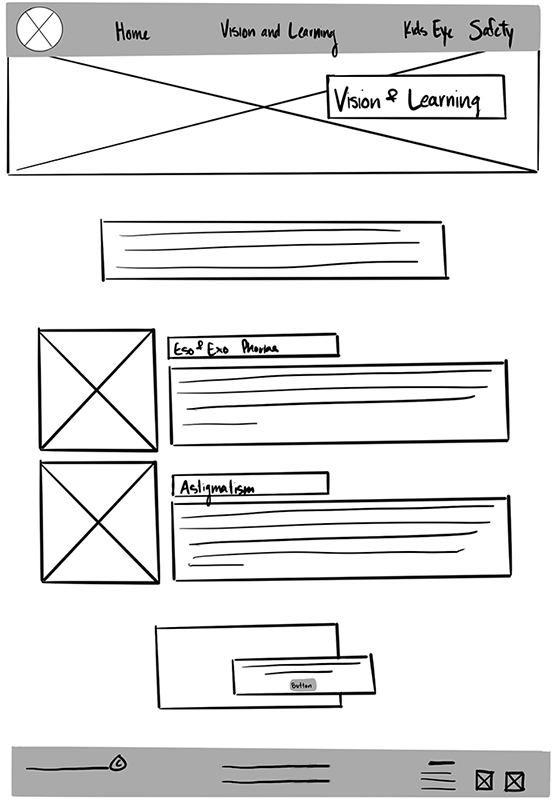
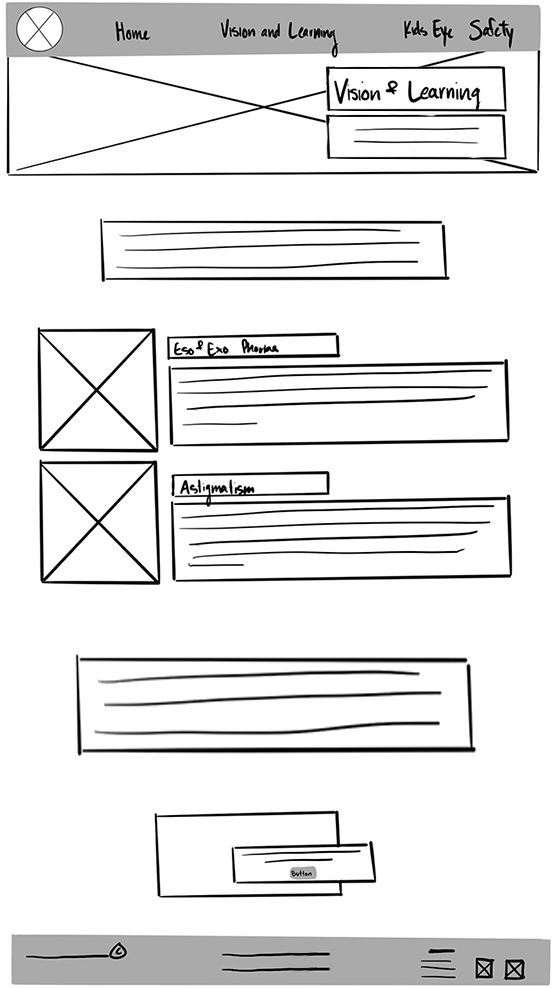
changes to html and CSS for vision-and-learning

Changed region(s): [[0.0, 0.0, 1.0, 1.0]]

diff --git a/eyelearn/vision-learning.html b/eyelearn/vision-learning.html
@@ -20,16 +20,16 @@
             </nav>
         </header>
         <div class="vision-learning-banner">
-            <div class="vision-banner-img">
+            <div id="vision-banner-img">
                 <img id="crayon-img" src="images/school-banner.jpg" alt="School Banner Background">
             </div>
-            <section id="vision-banner-text">
+            <section class="vision-banner-text">
                 <h1 class="vision-banner-text" id="vision-title">Vision and Learning</h1>
                 <h5 class="vision-banner-text" id="vision-text">How Eyes Can Affect Success in the Classroom</h5>
             </section>
         </div>
         <main>
-            <div>
+            <div class="vision-intro">
                 <p>80% of what we learn comes from vision, and recently studies have shown that 60% of 
                     "problem-learners" have an undiagnosed eye disorder. How did that happen? Because school 
                     screenings only focus on distance vision. Nearsightedness, meaning things at a distance
@@ -54,9 +54,7 @@
                         usually initially through a cover test then confirmed by additional testing.  Many phorias
                         don't cause any problems, but when they do they can impede learning by causing eyestrain, headaches,
                         poor concentration, difficulty reading, and fatigue.  Studies have even indicated that phorias have
-                        a strong correlation with dyslexia.  
-                    </p>
-                    <p>Treatment often includes prescription glasses and vision therapy. Diagnosis by an Optometrist or Ophthalmologist
+                        a strong correlation with dyslexia.  <br><br>Treatment often includes prescription glasses and vision therapy. Diagnosis by an Optometrist or Ophthalmologist
                         is essential in finding the right treatment for the condition.
                     </p>
                 </section>
@@ -73,13 +71,32 @@
                         front of it.  This is called an astigmatism.  Astigmatism is very common, but often overlooked by school screenings
                         because squinting greatly improves the vision from it, and kids often don't notice having to squint to see. Recent
                         studies have shown that children with high and moderate astigmatism have a significant decrease in reading fluency,
-                        as well as poor academic performance.
-                    </p>
-                    <p>Glasses is the primary treatment for astigmatism, and can have a substantial impact on kids with astigmatism. In 
+                        as well as poor academic performance.<br><br>Glasses is the primary treatment for astigmatism, and can have a substantial impact on kids with astigmatism. In 
                         the same study, students with high-astigmatism improved their reading speed by almost seven words per minute after
                         receiving glasses. A prescription from an Eye Doctor is required to receive glasses for astigmatism.
                     </p>
                 </section>
+                <section class="bonus-info" id="symptoms-info">
+                    <h2 class="bonus-subheader">
+                        Signs and Symptoms
+                    </h2>
+                    <p class="bonus-pg">
+                        Diagnosing vision issues in kids can be tricky, because they often don't realize that they're 
+                        experiencing problems.  Oftentimes it's so normal to them they don't know that it could be better.
+                        If you're unsure whether your child may be experiencing any eye-related learning deficiences,
+                        you can look for these signs and symptoms that hint at vision problems:
+                        <li>Headaches after prolonged reading</li> 
+                        <li>Squinting</li>
+                        <li>Avoiding reading or other activities that are up-close</li>
+                        <li>Eyes crossing or aren't straight</li>
+                        <li>Head turns or tilts when trying to focus</li>
+                        <li>Frequently covering or rubbing both eyes</li>
+                        <li>Losing their place frequently when reading</li>
+                        <li>Lack of interest in near-concentrated tasks, such as reading</li>
+                    </p>
+                </section>
+            </div>
+            <div class="find-doctor-grid">
                 <img id="kid-exam" src="images/kids-eye-exam.jpg" alt="Girl having eye exam">
                 <section class="mini-message">
                     <h2>Find an Eye Doctor Near You</h2>
@@ -97,7 +114,7 @@
             </div>
             <div class="find-doctor">
                 <p><a href="https://www.google.com/maps/search/?api=1&query=eye+doctors+near+me">Find an Eye Doctor</a></p>
-                <p><a href="https://kjirstenhernandez.github.io/wdd130/eyelearn/site-plan.html">Siteplan</a></p>
+                <p><a href="/site-plan.html" target="_blank">Siteplan</a></p>
             </div>
             
             <div class="resources">

diff --git a/eyelearn/styles/styles.css b/eyelearn/styles/styles.css
@@ -457,32 +457,146 @@ header {
                               ----->    VISION LEARNING PAGE CONTENT    <-----           
    ------------------------------------------------------------------------------------------------- */
 
-    /* Banner Image and Text  */
-            .vision-learning-banner{
-                display: grid;
-                grid-template-columns: 1fr 1fr 1fr 1fr 1fr;
-                margin-top: -100px;
-                text-align: center;
-            }
-            
-            #crayon-img, .vision-banner-text{
-             /* ------> creating the overlap*/
-                grid-row: 1/2;
-                grid-column: 1/6;
-            }
+   /* Banner Message */
+   
+   .vision-learning-banner{
+    display: grid;
+    grid-template-columns: 1fr 1fr 3fr;
+    grid-template-rows: repeat(7, 90px);
+    margin-top: -100px;
+}
+
+    /* Banner Image */
+
+        #vision-banner-img{     /*  setting up the image as a banner */
+            grid-column: 1/4;
+            grid-row: 1/3;
+            z-index: -1;
+            margin-top: 100px;   
+        }
+
+        #crayon-img{  /* -----> specific image attributes*/
+            width: 100%; 
+        }
+
+    /* Banner Message */
+
+        .vision-banner-text{  /* -----> Banner General Text Attributes*/
+            grid-column: 3/4;
+            color: #023047;
+            padding: 10px;
+            text-align: center;
+
+        }
+
+        #vision-title{  /*----> Banner Header */
+            font-family: Merriweather, Georgia, serif;
+            font-weight: 800;
+            font-size: 1.75em;
+            text-align: center;
+            background-color: #fb8601d2;
+            grid-row: 2/4;
+            border-radius: 20px;
+            padding: 10px
+        }
+
+        #vision-text{  /*----> Banner Paragraph */
+            font-family: "Montserrat", Helvetica, sans-serif;
+            font-size: 1.25em;
+            background-color: #fb8601d2;
+            grid-row: 4/7;
+            border-radius: 20px;
+            padding: 5%;
+        }
+
+/* Intro Paragraph */
+
+.vision-intro {
+    background-color: #80c5d6;
+    color: #023047;
+    margin: 200px 50px;
+    padding: 10pt 20pt;
+    border-radius: 20px;
+    font-family: "Montserrat", Helvetica, sans-serif;
+}
+
+/* Grid Items -- Photos and Descriptions */
+
+.vision-grid { /*----> Set up Grid */
+    display: grid;
+    grid-template-columns: 10px 2fr 3fr 10px;
+    grid-gap: 20px;
+}
+
+    .vision-card{ /*----> Image Cards (general) */
+        display: inline;
+        grid-column: 2/3;
+        align-items: center;
+        margin: auto
+        }
         
 
-            #crayon-img{
-                width: 100%;
+    .vision-card img{ /*----> Image Cards (individual specs) */
+        width: 80%;
+        border-radius: 2em;
+        justify-content: center;
         
-            }
+    }
 
-            .vision-banner-text {
-                background-color: #94d0e0;
-                
-            }
+    .vision-info{ /*----> Each Info Paragraph and Header*/
+        grid-column: 3/4;
+        padding: 30px;
+    }
 
+        .vision-subheader {  /*-------> Headers */
+            font-family: Merriweather, Georgia, serif;
+            font-weight: 800;
+            color: #023047;
+            font-size: 1.20em;
+        }
 
+        .vision-pg {  /*-------> Paragraphs */
+            font-family: "Montserrat", Helvetica, sans-serif;
+            color: #023047;
+            font-size: .80em;
+        }
+    
+
+/* Signs and Symptoms Bomus Info  */
+
+.bonus-info{
+    grid-column: 1/5;
+    padding: 3em;
+    background-color: #fb8501;
+    font-family: "Montserrat", Helvetica, sans-serif;
+    color: white;
+    font-size: .80em;
+    margin: 2em 8em;
+    border-radius: 20pt;
+}
+        .bonus-info li{
+            margin-left: 3em;
+        }
+
+        .bonus-subheader{
+            font-family: Merriweather, Georgia, serif;
+            font-weight: 800;
+            color: white;
+            font-size: 1.20em;
+        }
+
+    
+/* Mini Message at bottom */
+
+    #kid-exam, .mini-message{  /* ------> creating the overlap*/
+        grid-row: 1/2;
+    }
+
+    #kid-exam{ /* -------> image */
+        grid-column: 2/7;
+        border-radius: 20pt;
+        width: 90%;
+    }
 
 /* ----------------------------------------------------------- */
 /*                       FOOTER AND LINKS                      */
